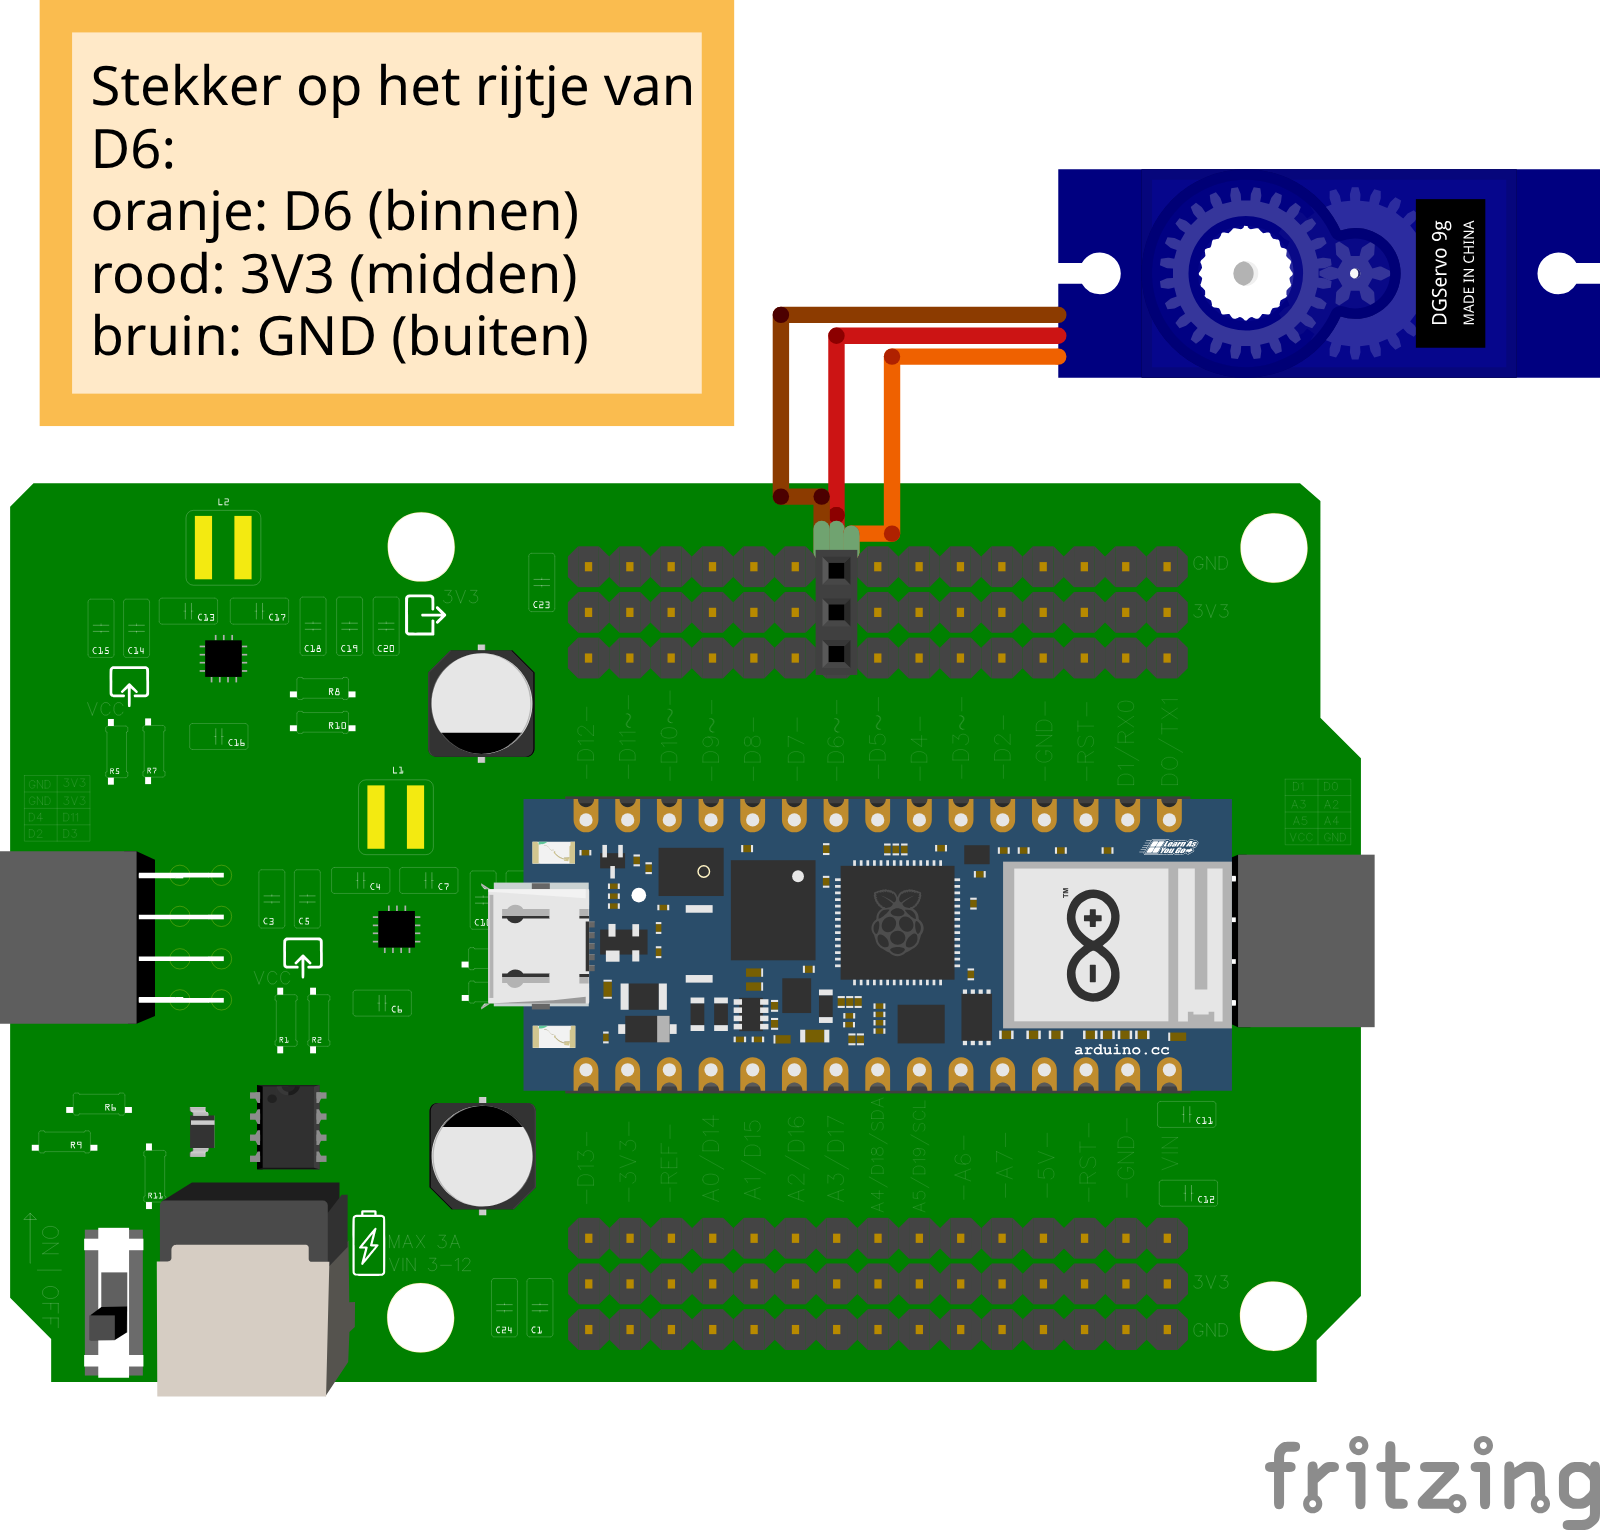
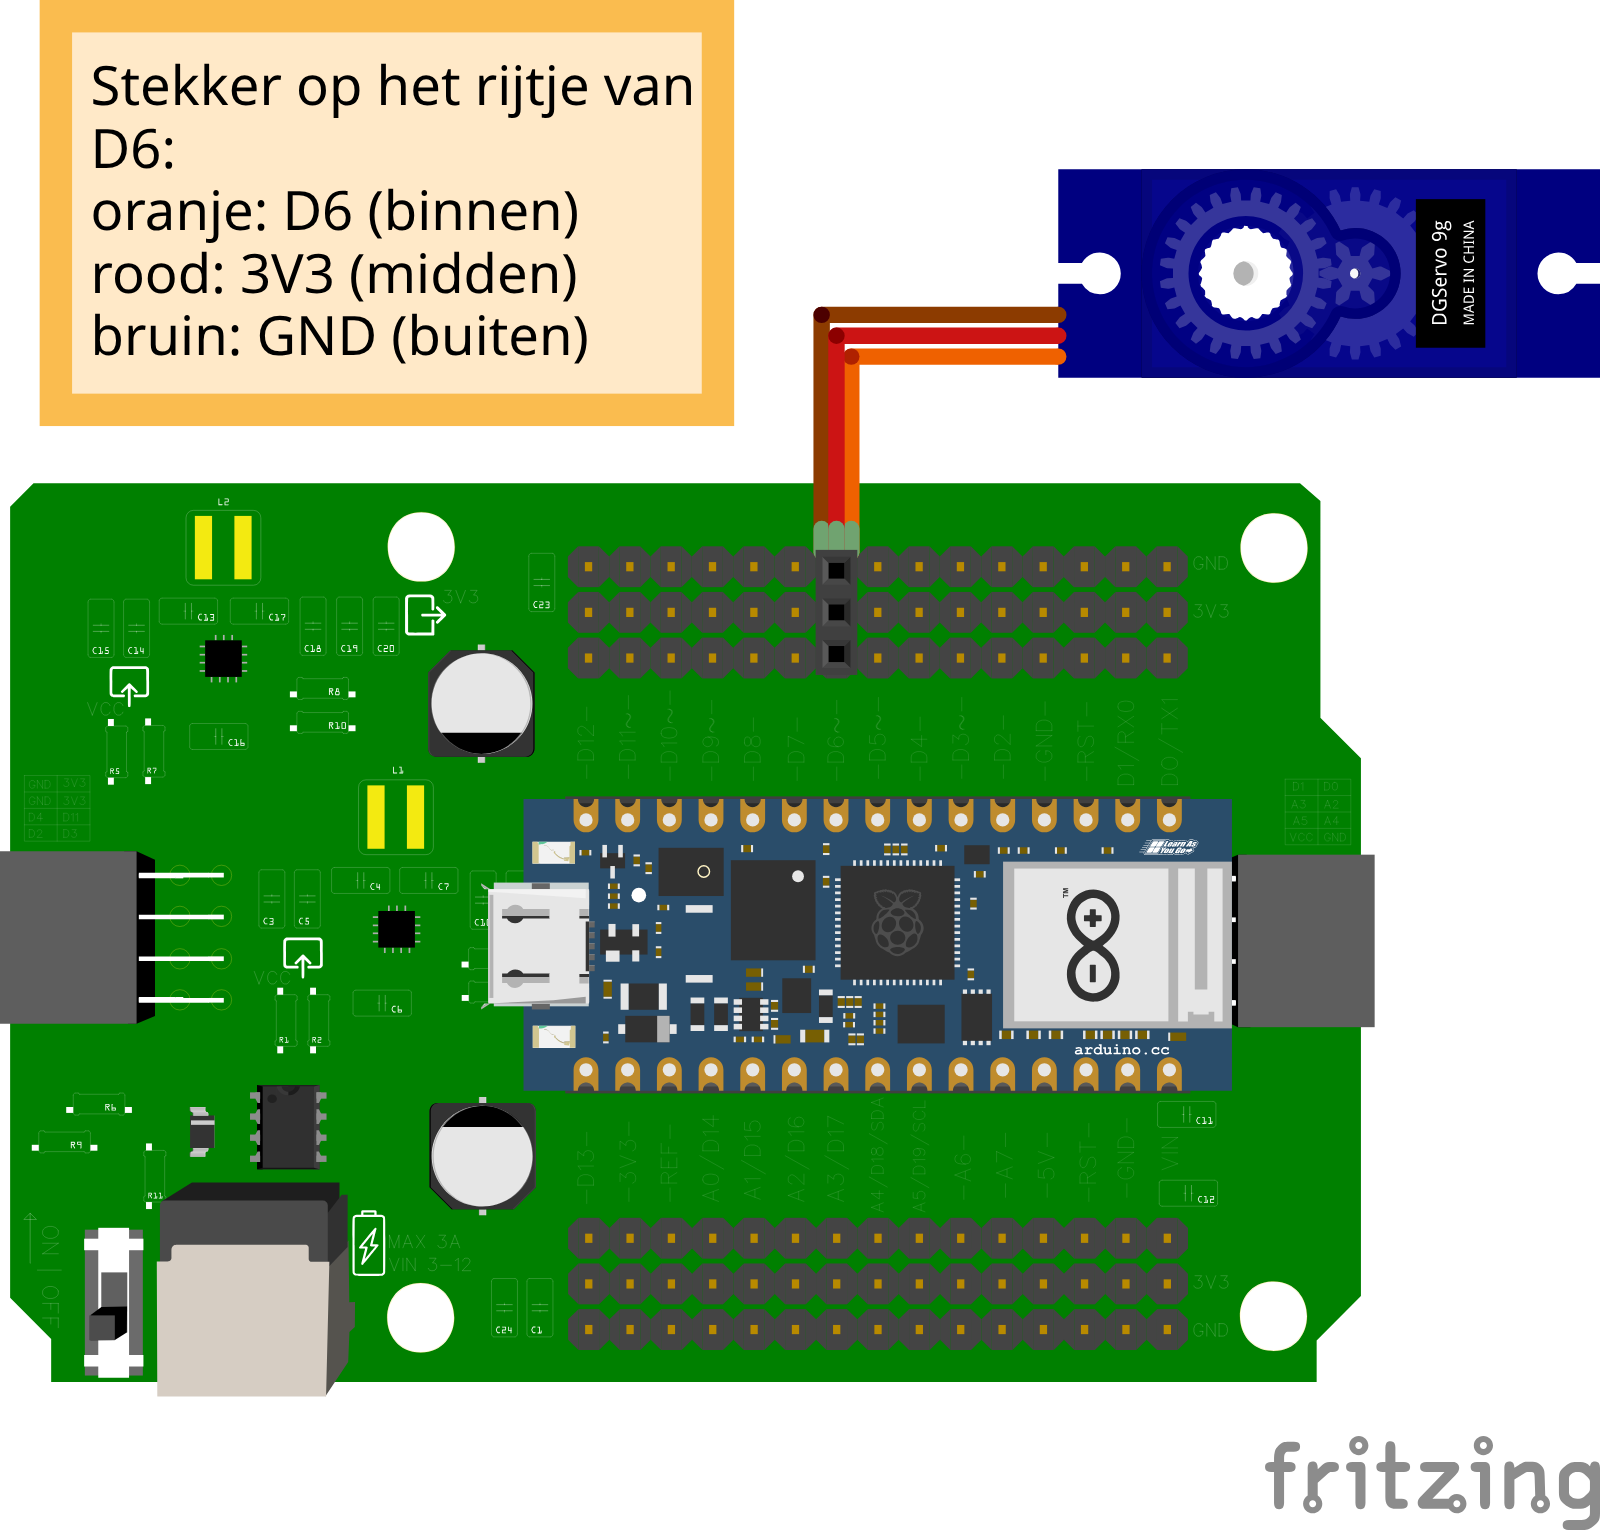
Robotica: de servokabel weer als één strip
Met het uitwaaieren van de jumperdraden waaierde de kabel van de servo mee:
drie losse draadjes die vlak voor de stekker zijwaarts terugbogen. Een
servokabel is één platte strip, dus nu lopen de drie draadjes weer naast
elkaar uit de servo, met één haakse bocht, recht de stekker in.

Puur tekenwerk, te zien in het plaatje; nagekeken in de export en met de
testserver van Fritzing (de drie stekkerpinnen zitten aan de servo en aan
het rijtje van D6).

Claude-Session: https://claude.ai/code/session_01AmMyeALxEdtqFWgowZCVkR

Changed region(s): [[0.4688, 0.1843, 0.5625, 0.3686]]

diff --git a/sites/informatica/robotica/CLAUDE.md b/sites/informatica/robotica/CLAUDE.md
@@ -15,7 +15,7 @@ Dit is een project waarin leerlingen zelf via een Arduino Nano RP2040 Connect se
 - **De site heeft vier ingangen**, elk in de navbar en als kaart op de homepage: de **Lego-auto** (`lego_auto/`, de leerroute in Python), de **Golfbot** (`golfbot/`, groep 7/8, blokken), **Onderdelen** (`docs/onderdelen/`, naslag) en **RoboCup Junior** (`docs/robocup/`, de wedstrijd Redden Basis). Editor, Cheatsheet, Er gaat iets mis en Robot checken staan onder **Hulp**. Tot november 2026 was de naslag één "Bibliotheek" onder `docs/Microcontrollers/Arduino Nano RP2040 Connect/`, met 44 pagina's in 16 categorieën die allemaal "Tutorial - …" heetten, spaties in de adressen en een sidebar die niemand opende; RoboCup zat daarnaast onder `Competities/RoboCup-Junior/Redden-Basis`. Elk oud adres stuurt door via `omleidingen` in `docusaurus.config.ts`, naar de sectie die het overnam, en `src/lego-tests/onderdelen.test.ts` eist dat voor de hele oude lijst.
 - **De code volgt de leaphymicropython die de online editor installeert** (main van `leaphy-robotics/leaphy-micropython`), niet een oudere. Een pin is een **naam als tekst** (`"D6"`, `"A0"`, `'LED'`): sinds augustus 2025 geeft de bibliotheek hem direct door aan `Pin()`, en een getal is daar het GPIO-nummer van de chip (`6` is het ingebouwde lampje, `9` tot `11` zitten aan de wifi-chip). `read_line_sensor` bestaat sinds mei 2025 niet meer; een digitale IR-sensor lees je met `Pin("D14", Pin.IN)`. `set_buzzer` weigert een toon boven 255 Hz, dus de buzzer gebruikt `PWM` uit `machine`. D18 tot en met D21 (A4 tot en met A7) lopen in MicroPython via de wifi-chip; een ultrasone sensor zit daarom op gewone D-pinnen (`read_distance("D7", "D8")`). `src/lego-tests/leaphy-api.test.ts` toetst elk python-blok in `docs/`, `lego_auto/` en `src/pages/` tegen `src/lego-tests/leaphy-api.json` (de modules en namen van de bibliotheek en de pinnen uit de `pins.csv` van MicroPython): elke import bestaat, elke pin is een naam die het bord kent, `read_distance` op een pin van de chip zelf, geen `set_buzzer` boven 255 Hz, en geen zwarte tekst na `fill("black")` op het OLED-scherm (`text()` is standaard zwart). Komt er een nieuwe versie van de bibliotheek, maak het JSON-bestand dan opnieuw met `scripts/leaphy-api.py` (de stappen staan bovenin dat script) en kijk wat de test zegt.
 - **RoboCup Junior** (`docs/robocup/`) gaat over Redden Basis, de liga voor beginners, en niet over Redden: elke bewering over de baan volgt de spelregels in `static/docs/RoboCupJuniorReddenBasis2025_rev1.pdf`. In november 2026 bleek dat de pagina's de regels van Redden volgden (een aluminiumrand om de zone waar een muur staat, een eindpunt dat je met de tape zou vinden terwijl het een zwarte driehoek is, zwarte ballen terwijl er alleen zilveren geleidende zijn) en dat de gaten en drempels ontbraken die punten opleveren. Nu: één startpagina met de spelregels in het kort en de punten, de materiaallijst, en per uitdaging een pagina in de volgorde van de baan, elk met een "Door naar"-link als laatste regel. De TOF op de multiplexer is de standaard afstandssensor: de code bij de ultrasone sensor gebruikt pin 18 en 19, en dat zijn A4 en A5 van I2C. `src/lego-tests/robocup.test.ts` bewaakt de volgorde, de links, een pagina per hindernis met punten, die feiten uit de spelregels, geen `read_distance` in de RoboCup-pagina's, en in de hele site dat een opsomming van de pinnen van het motor shield D2, D3, D4 en D11 is.
-- **Aansluitschema's staan op het shield**, niet los op de Nano (november 2026). In de les zit de Nano op het Leaphy Murphy Shield, met per pin een rijtje van drie: de pin zelf (binnen, naast de Nano), 3V3 (midden) en GND (buiten); de zes lessen LED, afstandssensor, digitale IR-sensor, servo, buzzer en RGB-LED leggen dat uit met de gedeelde alinea `docs/onderdelen/_delen/shield/rijen.md` (`<ShieldRijen />`). De schema's zijn gemaakt in Fritzing 1.0.8 en staan als bron in `static/fritzing/shield_*.fzz`, met de export ernaast als `shield_*_bb.png`. Een onderdeel krijgt zijn signaal, 3V3 en GND op één rijtje. In het schema heeft elke draad alleen haakse bochten (omlaag, opzij op een eigen hoogte, omlaag), loopt hij in een eigen baan over dat rijtje en eindigt hij precies op zijn pin: GND door het midden naar de buitenste pin, 3V3 en het signaal links of rechts ernaast, langs de pinnen ervoor, met een haakse bocht op de rij van hun eigen pin. Schuine draden waren niet te volgen, en draden die dicht naast elkaar liepen ook niet: naast het shield lopen draden minstens 8 uit elkaar (recht omlaag uit hun pin, of eerst uitwaaierend als de volgorde op het shield anders is, zoals Trig en Echo), en pas vlak boven het rijtje buigen ze naar hun baan. De hoogtes zijn zo gekozen dat zo min mogelijk draden kruisen en geen twee draden over dezelfde lijn lopen. Een legenda in het schema zegt welke kleur op welke pin komt: de leerling moet precies zien waar wat moet. Een stekker van drie op het rijtje verborg dat (Fritzing tekent een draad altijd boven een onderdeel); alleen de servo heeft er een, want zijn kabel eindigt echt in een stekker (de Dagu-stekker uit fritzing-parts, rechtop gezet). Een tweede signaalpin (Trig, en G en B van de RGB-LED) krijgt een losse draad naar de binnenste rij van zijn pin. Eerst gingen 3V3 en GND naar het rijtje van een buurpin; de opdrachtgever wil één rijtje per onderdeel. De RCWL-1601, de buzzer en de RGB-LED-module zijn eigen onderdelen in de .fzz (de RCWL is het HC-SR04 uit fritzing-parts, groen en met een andere naam). De RGB-LED zit op D10, D9 en D6 en niet meer op D9, D10 en D12: alleen in die volgorde kruist geen draad een andere. Fritzing laat bij een export een onderdeel weg waarvan de breadboard-SVG geen `<g id="breadboard">` heeft; zo ontbraken de USB-kabel in `nano_rp2040_verbinden.fzz` en het shield in de export, en daarom hebben die in de .fzz-bestanden zo'n laag gekregen. `src/lego-tests/schemas.test.ts` leest de .fzz en eist dat de pinnen op het shield precies de pinnen uit de code van de les zijn (plus GND, en 3V3 bij de sensoren en de servo), dat 3V3 en GND op het rijtje van een signaalpin van het onderdeel zitten, dat elke draad recht omlaag of recht opzij loopt, dat draden naast het shield minstens 8 uit elkaar lopen, dat Aansluiten het schema toont en die pinnen noemt, dat het LED-schema een weerstand van 220 Ω heeft, en dat geen sensor of actuator nog een `nano_rp2040_`-plaatje heeft.
+- **Aansluitschema's staan op het shield**, niet los op de Nano (november 2026). In de les zit de Nano op het Leaphy Murphy Shield, met per pin een rijtje van drie: de pin zelf (binnen, naast de Nano), 3V3 (midden) en GND (buiten); de zes lessen LED, afstandssensor, digitale IR-sensor, servo, buzzer en RGB-LED leggen dat uit met de gedeelde alinea `docs/onderdelen/_delen/shield/rijen.md` (`<ShieldRijen />`). De schema's zijn gemaakt in Fritzing 1.0.8 en staan als bron in `static/fritzing/shield_*.fzz`, met de export ernaast als `shield_*_bb.png`. Een onderdeel krijgt zijn signaal, 3V3 en GND op één rijtje. In het schema heeft elke draad alleen haakse bochten (omlaag, opzij op een eigen hoogte, omlaag), loopt hij in een eigen baan over dat rijtje en eindigt hij precies op zijn pin: GND door het midden naar de buitenste pin, 3V3 en het signaal links of rechts ernaast, langs de pinnen ervoor, met een haakse bocht op de rij van hun eigen pin. Schuine draden waren niet te volgen, en draden die dicht naast elkaar liepen ook niet: naast het shield lopen draden minstens 8 uit elkaar (recht omlaag uit hun pin, of eerst uitwaaierend als de volgorde op het shield anders is, zoals Trig en Echo), en pas vlak boven het rijtje buigen ze naar hun baan. De hoogtes zijn zo gekozen dat zo min mogelijk draden kruisen en geen twee draden over dezelfde lijn lopen. Een legenda in het schema zegt welke kleur op welke pin komt: de leerling moet precies zien waar wat moet. Een stekker van drie op het rijtje verborg dat (Fritzing tekent een draad altijd boven een onderdeel); alleen de servo heeft er een, want zijn kabel eindigt echt in een stekker (de Dagu-stekker uit fritzing-parts, rechtop gezet); die kabel is één platte strip van drie draadjes, met één haakse bocht recht de stekker in, en waaiert niet uit zoals losse jumperdraden. Een tweede signaalpin (Trig, en G en B van de RGB-LED) krijgt een losse draad naar de binnenste rij van zijn pin. Eerst gingen 3V3 en GND naar het rijtje van een buurpin; de opdrachtgever wil één rijtje per onderdeel. De RCWL-1601, de buzzer en de RGB-LED-module zijn eigen onderdelen in de .fzz (de RCWL is het HC-SR04 uit fritzing-parts, groen en met een andere naam). De RGB-LED zit op D10, D9 en D6 en niet meer op D9, D10 en D12: alleen in die volgorde kruist geen draad een andere. Fritzing laat bij een export een onderdeel weg waarvan de breadboard-SVG geen `<g id="breadboard">` heeft; zo ontbraken de USB-kabel in `nano_rp2040_verbinden.fzz` en het shield in de export, en daarom hebben die in de .fzz-bestanden zo'n laag gekregen. `src/lego-tests/schemas.test.ts` leest de .fzz en eist dat de pinnen op het shield precies de pinnen uit de code van de les zijn (plus GND, en 3V3 bij de sensoren en de servo), dat 3V3 en GND op het rijtje van een signaalpin van het onderdeel zitten, dat elke draad recht omlaag of recht opzij loopt, dat draden naast het shield minstens 8 uit elkaar lopen, dat Aansluiten het schema toont en die pinnen noemt, dat het LED-schema een weerstand van 220 Ω heeft, en dat geen sensor of actuator nog een `nano_rp2040_`-plaatje heeft.
 - **Onderdelen versus lego_auto** — twee rollen, twee stijlen:
   - **Onderdelen** (`docs/onderdelen/`) is naslag: complete, vlot uit te voeren scripts die je kunt kopiëren. Eén pagina per onderdeel of handeling, met `## Materiaal`, `## Aansluiten`, `## Code` en waar nodig `## Er gaat iets mis`, en een `description` in de frontmatter. De overzichtspagina (`docs/onderdelen/index.mdx` met `src/components/OnderdelenOverzicht`) leest de groepen en de pagina's uit `onderdelenSidebar`, en de kaart van een pagina uit `sidebar_custom_props` in zijn frontmatter: `kort` (één regel; de description was drie tot vijf regels per kaart), `foto` (een pad onder `docs/onderdelen/img/`, zodat je herkent wat er op tafel ligt), `aansluiting` (digitale pin, I2C, …) en `hulp`. Aan de slag heeft in `sidebars.ts` `customProps: { weergave: 'stappen' }` en wordt een genummerde rij, met Er gaat iets mis (`hulp: true`) als losse regel eronder. Geen DocCardList, want die zet een emoji voor elke titel. `onderdelen.test.ts` eist `kort` bij elke pagina, een foto die bestaat bij elke kaart en een `aansluiting` bij elke sensor en actuator. De groepen in `sidebars.ts` zijn Aan de slag, Sensoren, Actuatoren en Op de robot; een nieuw onderdeel krijgt een plek in een groep, en de test eist dat elke pagina in de map ook in de sidebar staat. Wat lego_auto uit een onderdeel importeert, staat als partial in `docs/onderdelen/_delen/<onderdeel>/` (een map met `_` wordt geen pagina), en zowel de onderdeelpagina als de lego_auto-pagina importeren hem met `@site/docs/onderdelen/_delen/…`: één bron. Eén uitzondering op de naslagstijl: `ingebouwd-lampje` (en `led`) zijn de instap voor wie nog nooit code schreef en bouwen het programma regel voor regel op, met `<Voorkennis>`-links naar de python-cursus.
   - Het **lego_auto**-traject is opbouwend: één groeiend robotscript ("Het robotscript bouwen — Deel N") waarin elke les één of twee nieuwe concepten of regels toevoegt, en dat uitmondt in de lijnvolger. Gebruik nooit een import-stub voor een pagina met python-code; stubs zijn alleen voor hardware- en instructiepagina's zonder code.
